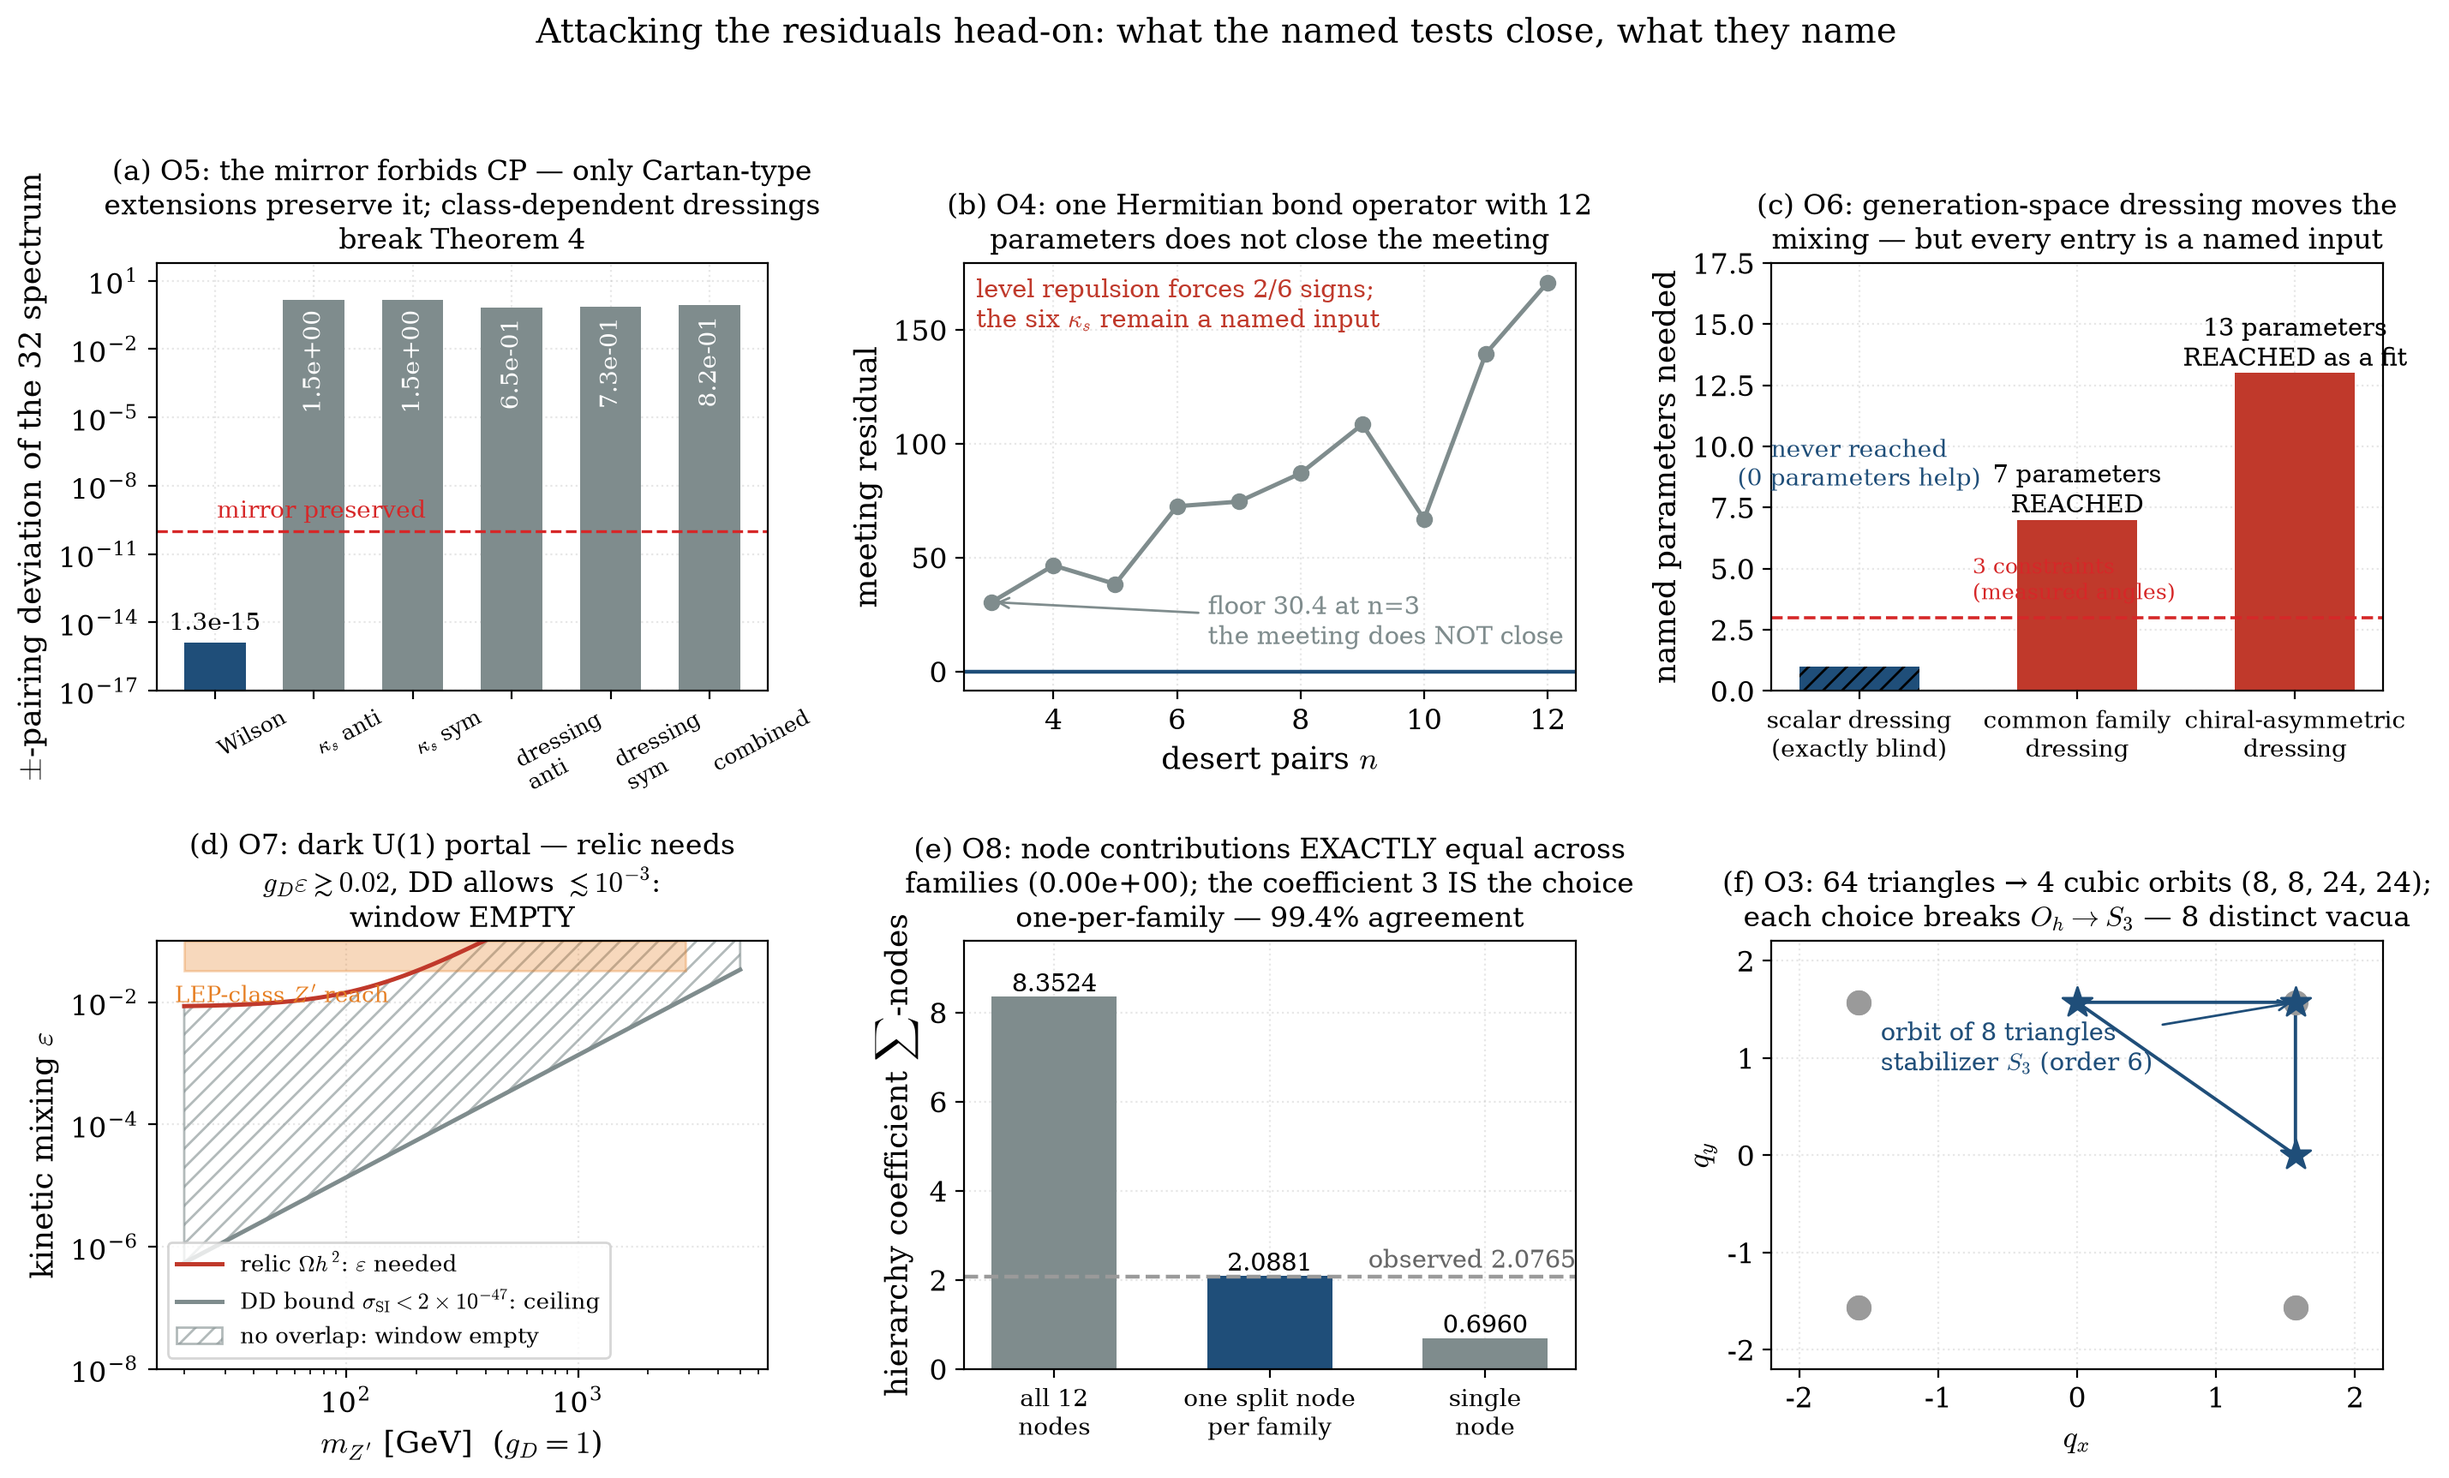
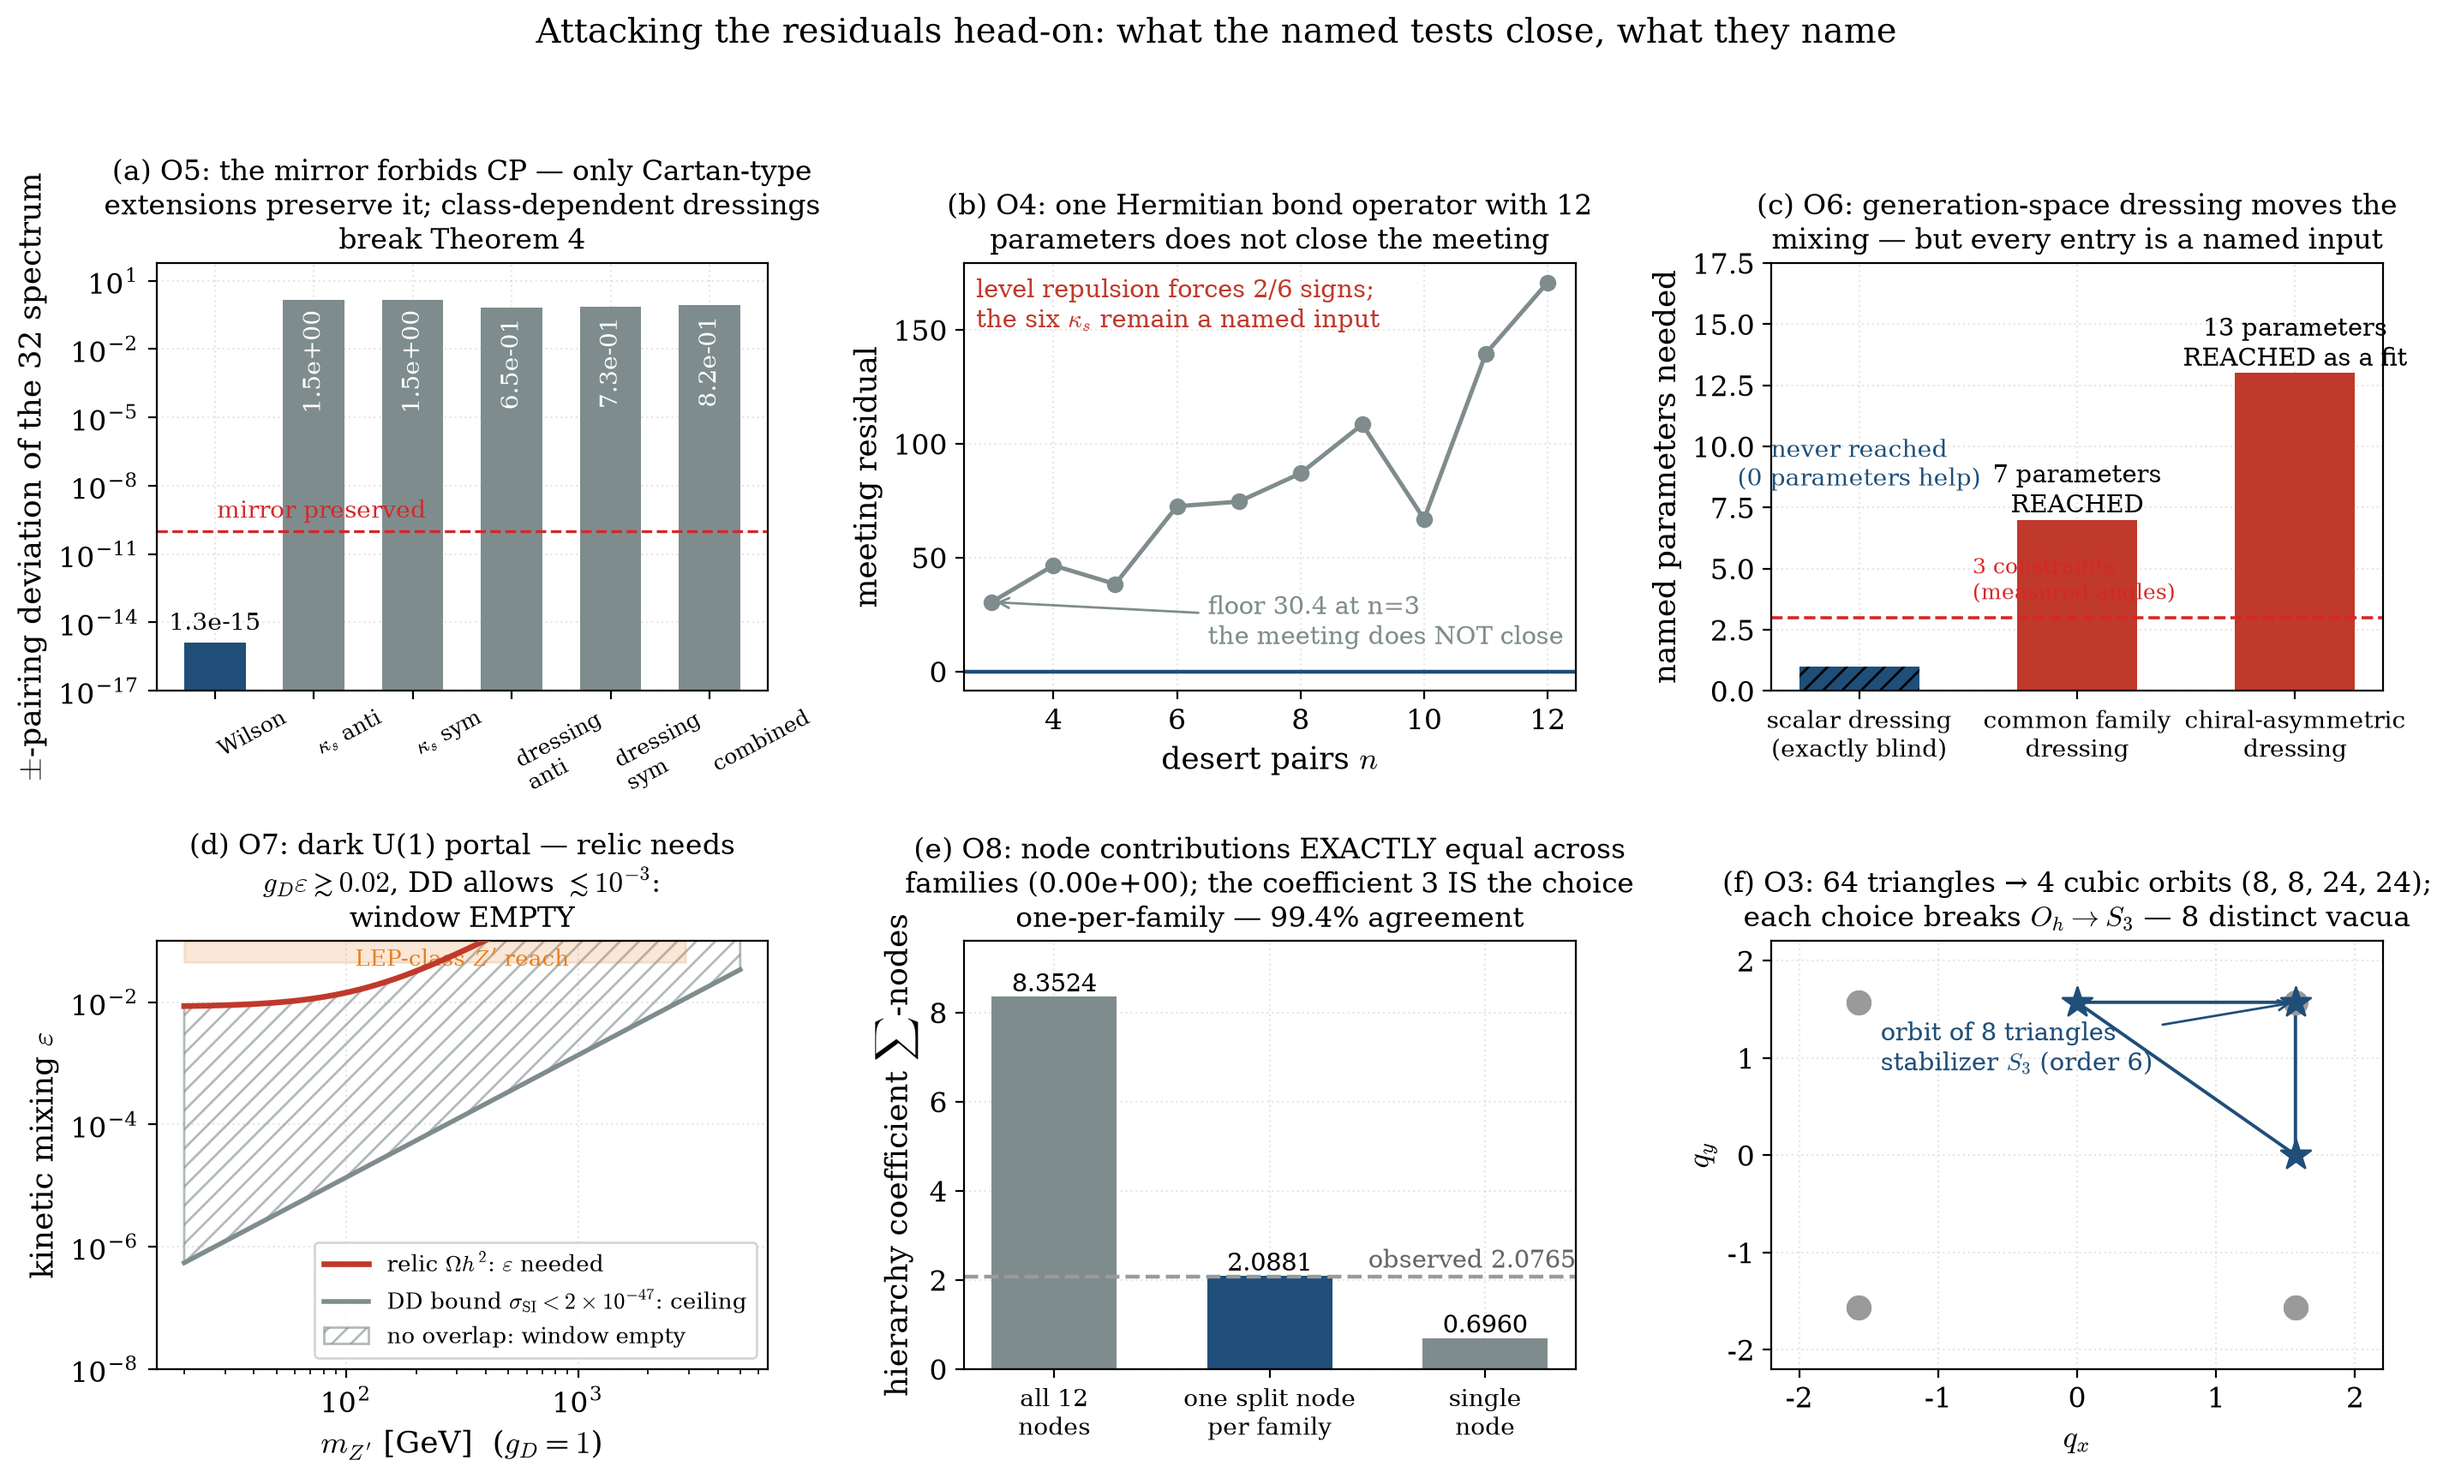
fig25(d): the dark-U(1) curves read cleanly - legend moved to the empty lower-right corner (was sitting on the DD ceiling curve), LEP-reach label moved inside its own band (was printed over the relic curve), curves raised above the hatched no-overlap band with zorder and thicker lines

Changed region(s): [[0.0623, 0.8296, 0.2803, 0.9217], [0.0623, 0.6145, 0.2803, 0.6759], [0.2803, 0.8603, 0.3114, 0.891]]

diff --git a/make_figures/residuals.py b/make_figures/residuals.py
@@ -622,22 +622,22 @@ def fig25_residual_attacks():
                         / (gD ** 2 * e2 * 3.0 * 4 * ms ** 2))
     eps_dd = np.sqrt(dd_lim * math.pi * mzp ** 4
                      / (gD ** 2 * e2 * mu_N ** 2))
-    ax4.plot(mzp, eps_relic, color=C_FIT, lw=1.8,
+    ax4.plot(mzp, eps_relic, color=C_FIT, lw=2.4, zorder=5,
              label=r"relic $\Omega h^2$: $\varepsilon$ needed")
-    ax4.plot(mzp, eps_dd, color=C_OPEN, lw=1.8,
+    ax4.plot(mzp, eps_dd, color=C_OPEN, lw=2.0, zorder=5,
              label=r"DD bound $\sigma_{\rm SI} < 2\times10^{-47}$: ceiling")
     ax4.fill_between(mzp, eps_dd, eps_relic, facecolor="none",
                      edgecolor=C_OPEN, hatch="///", alpha=0.6,
                      label="no overlap: window empty")
-    ax4.axvspan(20, 2900, ymin=0.93, color=C_CONV, alpha=0.3)
-    ax4.text(0.03, 0.90, "LEP-class $Z'$ reach", fontsize=9.5,
-             color=C_CONV, transform=ax4.transAxes, va="top")
+    ax4.axvspan(20, 2900, ymin=0.95, color=C_CONV, alpha=0.18)
+    ax4.text(0.5, 0.985, "LEP-class $Z'$ reach", fontsize=9.5,
+             color=C_CONV, transform=ax4.transAxes, va="top", ha="center")
     ax4.set_xscale("log")
     ax4.set_yscale("log")
     ax4.set_ylim(1e-8, 1e-1)
     ax4.set_xlabel(r"$m_{Z'}$ [GeV]  ($g_D = 1$)")
     ax4.set_ylabel("kinetic mixing $\\varepsilon$")
-    ax4.legend(fontsize=9.5, loc="lower left")
+    ax4.legend(fontsize=9.5, loc="lower right")
     ax4.set_title("(d) O7: dark U(1) portal — relic needs\n"
                   r"$g_D\varepsilon \gtrsim 0.02$, DD allows "
                   r"$\lesssim 10^{-3}$:" "\nwindow EMPTY",
